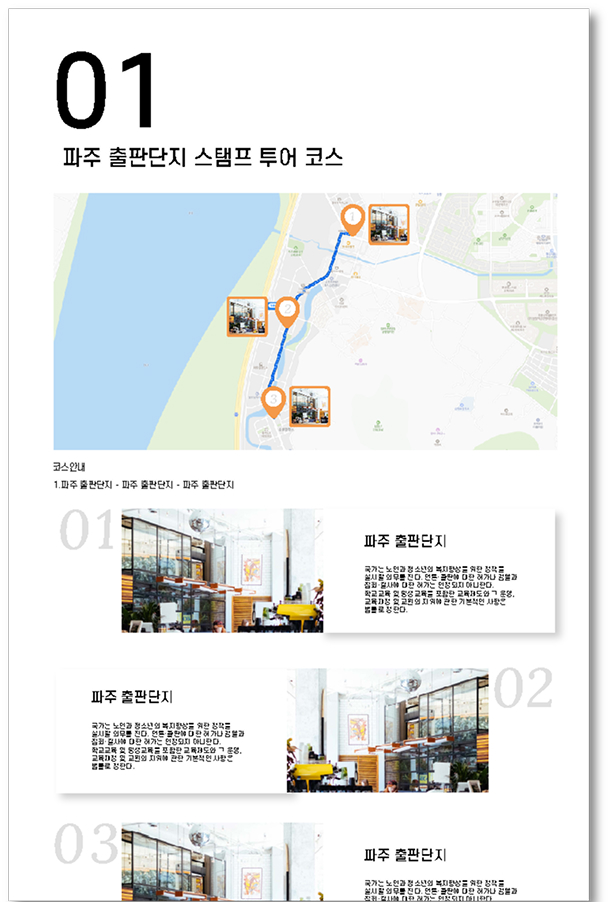
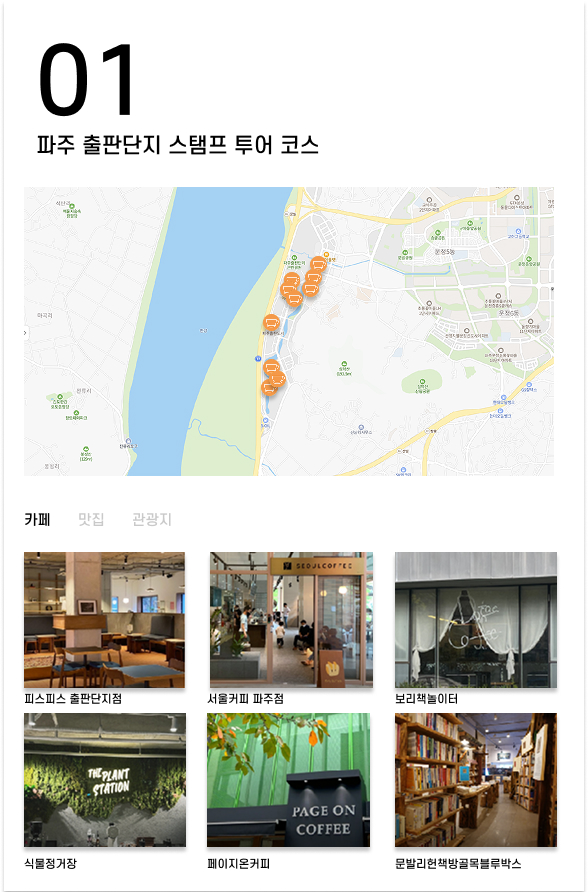
[기능] 메인페이지 콘텐츠 선택 구현

diff --git a/src/assets/styles/main.css b/src/assets/styles/main.css
@@ -3,7 +3,7 @@
 /* 히어로 섹션 */
 .hero-section {
     position: relative;
-    height: 100vh;
+    min-height: 100vh;
     /* 폴백 배경 (이미지 로딩 실패 시) */
     background: linear-gradient(135deg, #8B7355 0%, #A0956B 50%, #B8A882 100%);
     /* 메인 배경 이미지 */
@@ -15,6 +15,87 @@
     display: flex;
     align-items: center;
     padding: 0;
+}
+
+/* 홈 화면은 네비게이션 바로 아래에서 시작해 하단까지 꽉 차도록 조정 */
+body.home-page .main-content {
+    margin-top: 0;
+}
+
+body.home-page .hero-section {
+    min-height: 100vh;
+    padding-top: 7.5vh;
+    align-items: center;
+    background: #FFFCEE;
+    background-image: url('../images/hero-bg.jpg');
+    background-size: cover;
+    background-position: center;
+    background-repeat: no-repeat;
+    background-attachment: scroll;
+    overflow: hidden;
+}
+
+body.home-page .hero-section::before {
+    display: none;
+}
+
+body.home-page .hero-overlay {
+    width: 50%;
+    z-index: 1;
+}
+
+body.home-page .hero-container {
+    position: relative;
+    z-index: 2;
+    max-width: 88vw;
+    height: calc(100vh - 7.5vh);
+    align-items: center;
+    justify-content: space-between;
+    padding: 0 4vw;
+    gap: 0;
+}
+
+body.home-page .hero-content {
+    flex: 0 0 50%;
+    max-width: 50%;
+    display: flex;
+    flex-direction: column;
+    justify-content: center;
+    height: 100%;
+    padding-right: 2vw;
+}
+
+body.home-page .content-images {
+    flex: 0 0 50%;
+    max-width: 50%;
+    height: 100%;
+    display: flex;
+    align-items: center;
+    justify-content: flex-start;
+    padding-left: 0;
+    position: relative;
+    overflow: visible;
+}
+
+body.home-page .content-card {
+    position: absolute;
+    top: 0;
+    left: 0;
+    right: auto;
+    width: fit-content;
+    height: 100%;
+    max-width: none;
+    min-width: 0;
+    border-radius: 0;
+    z-index: 1;
+}
+
+body.home-page .content-card .content-image,
+body.home-page .content-card:hover .content-image,
+body.home-page .content-card.active .content-image {
+    transition: none;
+    transform: none !important;
+    object-fit: cover;
 }
 
 /* 히어로 컨테이너 */
@@ -99,6 +180,8 @@
     z-index: 10 !important;
     transform: translateX(0) translateY(0) scale(1.02) !important;
     box-shadow: 0 1.87vh 3.75vh rgba(0, 0, 0, 0.4);
+    width: fit-content;
+    display: inline-block;
 }
 
 /* 비활성 카드 */
@@ -112,48 +195,12 @@
     transform: translateY(-0.47vh);
 }
 
-/* 카드 헤더 */
-.card-header {
-    padding: 2.34vh 2.34vh 1.4vh;
-    background: rgba(255, 255, 255, 0.9);
-    backdrop-filter: blur(0.94vh);
-}
-
-.card-number {
-    display: inline-block;
-    font-size: 2.25rem;
-    font-weight: bold;
-    color: #333;
-    margin-bottom: 0.75vh;
-}
-
-.card-title {
-    font-size: 1rem;
-    font-weight: 600;
-    color: #333;
-    margin: 0;
-    line-height: 1.4;
-}
-
-/* 카드 이미지 */
-.card-image {
-    height: calc(100% - 7.5vh);
-    overflow: hidden;
-}
-
 .content-image {
-    width: 100%;
+    width: auto;
     height: 100%;
-    object-fit: cover;
-    transition: transform 0.3s ease;
-}
-
-.content-card:hover .content-image {
-    transform: scale(1.05);
-}
-
-.content-card.active .content-image {
-    transform: scale(1.02);
+    display: block;
+    object-fit: contain;
+    transition: none;
 }
 
 /* CTA 버튼 */
@@ -161,7 +208,8 @@
     background-color: rgba(255, 255, 255, 0.9);
     color: #333;
     border: none;
-    padding: 1.4vh 1.56vw;
+    padding: 1.2vh 0;
+    width: 11.5rem;
     font-size: 1rem;
     font-weight: bold;
     border-radius: 2.34vh;
@@ -169,7 +217,8 @@
     transition: all 0.3s ease;
     display: inline-flex;
     align-items: center;
-    gap: 0.52vw;
+    justify-content: center;
+    text-align: center;
 }
 
 .cta-button:hover {
@@ -501,23 +550,6 @@
         margin: 0;
     }
     
-    .card-header {
-        padding: 1.87vh 2.6vw 1.12vh;
-    }
-    
-    .card-number {
-        font-size: 1.75rem;
-        margin-bottom: 0.47vh;
-    }
-    
-    .card-title {
-        font-size: 0.875rem;
-    }
-    
-    .card-image {
-        height: calc(100% - 6.09vh);
-    }
-    
     .page-hero h1 {
         font-size: 2rem;
     }
@@ -547,6 +579,7 @@
     .cta-button {
         padding: 1.12vh 5vw;
         font-size: 0.875rem;
+        gap: 2vw;
     }
     
     .content-images {
@@ -557,21 +590,5 @@
     .content-card {
         width: 45.83vw;
         height: 24.37vh;
-    }
-    
-    .card-header {
-        padding: 1.4vh 3.125vw 0.94vh;
-    }
-    
-    .card-number {
-        font-size: 1.5rem;
-    }
-    
-    .card-title {
-        font-size: 0.75rem;
-    }
-    
-    .card-image {
-        height: calc(100% - 5.16vh);
     }
 }

diff --git a/public/index.html b/public/index.html
@@ -12,7 +12,7 @@
     <link rel="stylesheet" href="../src/assets/styles/utilities.css">
     <link rel="stylesheet" href="../src/assets/styles/main.css">
 </head>
-<body>
+<body class="home-page">
     <!-- 상단 헤더 메뉴 -->
     <header class="header">
         <div class="header-container">
@@ -52,35 +52,17 @@
                 <div class="content-images">
                     <!-- 콘텐츠 1: 파주 출판단지 스탬프 투어 코스 -->
                     <div class="content-card active" data-content="1">
-                        <div class="card-header">
-                            <span class="card-number">01</span>
-                            <h3 class="card-title">파주 출판단지 스탬프 투어 코스</h3>
-                        </div>
-                        <div class="card-image">
-                            <img src="../src/assets/images/main_contents_01.jpg" alt="파주 출판단지 스탬프 투어 코스" class="content-image">
-                        </div>
+                        <img src="../src/assets/images/main_contents_01.jpg" alt="파주 출판단지 스탬프 투어 코스" class="content-image">
                     </div>
                     
                     <!-- 콘텐츠 2: 나만의 추억앨범 -->
                     <div class="content-card" data-content="2">
-                        <div class="card-header">
-                            <span class="card-number">02</span>
-                            <h3 class="card-title">나만의 추억앨범</h3>
-                        </div>
-                        <div class="card-image">
-                            <img src="../src/assets/images/main_contents_02.jpg" alt="나만의 추억앨범" class="content-image">
-                        </div>
+                        <img src="../src/assets/images/main_contents_02.jpg" alt="나만의 추억앨범" class="content-image">
                     </div>
                     
                     <!-- 콘텐츠 3: DIY 동화 스토리북 -->
                     <div class="content-card" data-content="3">
-                        <div class="card-header">
-                            <span class="card-number">03</span>
-                            <h3 class="card-title">DIY 동화 스토리북</h3>
-                        </div>
-                        <div class="card-image">
-                            <img src="../src/assets/images/main_contents_03.jpg" alt="DIY 동화 스토리북" class="content-image">
-                        </div>
+                        <img src="../src/assets/images/main_contents_03.jpg" alt="DIY 동화 스토리북" class="content-image">
                     </div>
                 </div>
             </div>

diff --git a/src/assets/scripts/main.js b/src/assets/scripts/main.js
@@ -135,13 +135,17 @@ function setupContentSelector() {
                 // 텍스트 내용 업데이트
                 heroTitle.innerHTML = data.title;
                 heroSubtitle.textContent = data.subtitle;
-                heroButton.textContent = data.buttonText;
-                heroButton.setAttribute('data-link', data.link);
+                if (heroButton) {
+                    heroButton.setAttribute('data-link', data.link);
+                    heroButton.textContent = data.buttonText;
+                }
                 
                 // 페이드 인 효과
                 heroTitle.style.opacity = '1';
                 heroSubtitle.style.opacity = '1';
-                heroButton.style.opacity = '1';
+                if (heroButton) {
+                    heroButton.style.opacity = '1';
+                }
             }, 250);
         }
     }
@@ -170,9 +174,9 @@ function setupContentSelector() {
         // 나머지 카드들 위치 설정
         otherCards.forEach(function(card, index) {
             card.style.zIndex = String(3 - index);
-            var offsetX = -4.17 * (index + 1); // -80px을 vw로 변환
-            var offsetY = 1.87 * (index + 1); // 20px을 vh로 변환
-            card.style.transform = 'translateX(' + offsetX + 'vw) translateY(' + offsetY + 'vh)';
+            var offsetX = 6 * (index + 1);
+            var scale = Math.max(0.85, 0.95 - index * 0.04);
+            card.style.transform = 'translateX(' + offsetX + 'vw) translateY(0) scale(' + scale + ')';
         });
     }
     
